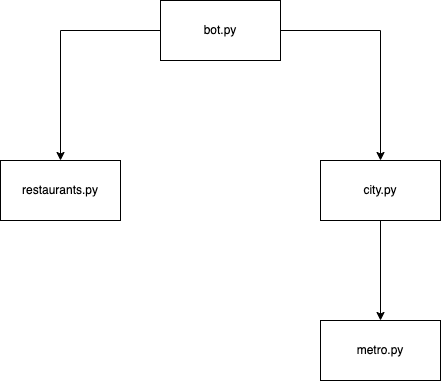
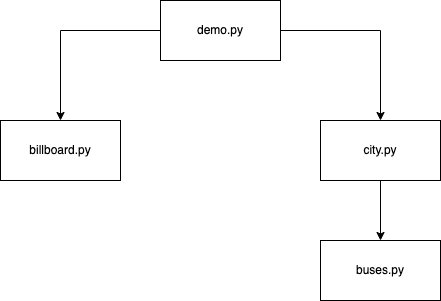
Millores

diff --git a/README.md b/README.md
@@ -5,7 +5,7 @@
 
 ## Introducció
 
-Aquesta pàgina descriu el projecte CineBus, que correspon a la segona pràctica del curs 2023 d'AP2 al GCED. La vostra tasca consisteix en implementar un Bot de Telegram que permeti als barcelonins trobar una pel·lícula d'acord a les seves preferències i ensenyar-los com arribar al cinema que la mostri el més aviat possible en desplaçaments en bus i a peu.
+Aquesta pàgina descriu el projecte CineBus, que correspon a la segona pràctica del curs 2023 d'AP2 al GCED. La vostra tasca consisteix en implementar la part relativa a les dades, algorismes i visualització d'un sistema que permeti als barcelonins trobar una pel·lícula d'acord a les seves preferències i ensenyar-los com arribar al cinema que la mostri el més aviat possible en desplaçaments en bus i a peu.
 
 Per realitzar aquesta pràctica haureu d'integrar aquestes dades:
 
@@ -13,7 +13,7 @@ Per realitzar aquesta pràctica haureu d'integrar aquestes dades:
 
 - La [Informació de companyies, línies i recorreguts](https://www.ambmobilitat.cat/OpenData/ObtenirDadesAMB.json) del [Catàleg OpenData de l'Àrea Metropolitana de Barcelona](https://www.amb.cat/s/web/area-metropolitana/dades-obertes/cataleg-opendata.html).
 
-- Alguna cartellera de cinema com la de [Sensacine](https://www.sensacine.com/cines/cines-en-72480/).
+- Alguna cartellera de cinema, com ara la de [Sensacine](https://www.sensacine.com/cines/cines-en-72480/).
 
 
 ## Arquitectura del sistema
@@ -26,24 +26,24 @@ Els sistema consta dels mòduls següents:
 
 - `city.py` conté tot el codi relacionat amb la construcció del graf de ciutat i la cerca de rutes entre punts de la ciutat.
 
-- `bot.py` conté tot el codi relacionat amb el bot de Telegram i utilitza els mòduls `city` i `billboard`. La seva tasca és reaccionar a les comandes dels usuaris per poder-los guiar. 
+- `demo.py` conté un programa de demostració i utilitza els mòduls `city` i `billboard`. 
 
 Els diagrama de mòduls següents mostra les relacions d'ús entre aquests mòduls:
 
-!!!FALTA POSAR NOVA VERSIO
+
 ![images/moduls.png](images/moduls.png)
 
 
 
 ## Mòdul `billboard`
 
-La funció principal d'aquest mòdul és llegir les dades relatives a la cartellera de cinemes de Barcelona i cercar-les. 
+La funció principal d'aquest mòdul és llegir les dades relatives a la cartellera de cinemes de Barcelona del dia actual i cercar-les. 
 
-La lectura de la cartalleres ha de generar una dada de tipus `Billboard`, que té tres camps: 
+La lectura de la cartallera ha de generar una dada de tipus `Billboard`, que té tres camps: 
 
 - `films` enmagatzema les pel·lícules disponibles,
 - `cinemas` enmagatzema les sales de cinema disponibles,
-- `projeccions` enmagatzema les projeccions (sessions) de pel·licules en sales, juntament amb la seva hora.
+- `projeccions` enmagatzema les projeccions (sessions) de pel·lícules en sales, juntament amb la seva hora.
 
 La informació de cada pel·lícula s'ha de desar en una dada de tipus `Film`. Per exemple,
 
@@ -61,7 +61,7 @@ La informació de cada sala s'ha de desar en una dada de tipus `Cinema`. Per exe
 
 ```python3
 @dataclass 
-class Ciname: 
+class Cinema: 
     name: str
     address: str
     ...
@@ -79,7 +79,7 @@ class Projection:
     ...
 ```
 
-Així, la classe `Billboard` tñe, com a mínim, aquests atributs i mètodes:
+Així, la classe `Billboard` podria tenir aquests atributs i mètodes:
 
 ```python3
 @dataclass 
@@ -95,14 +95,14 @@ La funció `read` del mòdul `billboard.py` ha de descarregar les dades necessà
 def read() -> Billboard: ...
 ```
 
-La classe `Billboard` ha de proporcionar mètodes per poder-hi cercar informació. !!! COMPLETAR
+A més, la classe `Billboard` ha de proporcionar mètodes per poder-hi cercar informació. Per exemple, podria haver-hi un mètode que, donat un mot, retornés totes les projeccions de pel·lícules que inclouen aquell mot al seu títol. Opcionalment, podeu afegir-hi més mètodes de consulta, per exemple per trobar pel·lícules a través de filtres com el seu gènere, el seu director, els seus actors...
 
 
 ## Mòdul `buses`
 
-La funció principal d'aquest mòdul és crear un **graf de busos** a partir de les dades de les línies i les seves parades. Un graf de busos conté informació sobre les parades, les línies i els trajectes dels autobusos. 
+La funció principal d'aquest mòdul és crear un **graf de busos** a partir de les dades de la informació de les línies d'autobusos i les seves parades. Un graf de busos conté informació sobre les parades, les línies i els trajectes dels autobusos. 
 
-En un graf (dirigit) de metro els nodes es corresponen a les parades i els arcs als trajectes entres dues parades consecutives d'una mateixa línia de bus. Els nodes han de tenir atributs per desar-hi el nom de la parada, les seves coordenades, ètc. Els arc han de tenir atributs per desar-hi, per exemple, la línia del bús que el serveix.
+En un graf (dirigit) de busos, els nodes es corresponen a les parades i els arcs als trajectes entres dues parades consecutives d'una mateixa línia de bus. Els nodes han de tenir atributs per desar-hi el nom de la parada, les seves coordenades, ètc. Els arcs han de tenir atributs per desar-hi, per exemple, la línia del bús que els serveix.
 
 El mòdul `busos` ha d'oferir la funció
 
@@ -110,7 +110,7 @@ El mòdul `busos` ha d'oferir la funció
 def get_buses_graph() -> BusesGraph: ...
 ```
 
-que es baixa les dades de l'AMB i retorna un graf no dirigit a partir del contingut. El tipus `BusesGraph` no és altra cosa que un graf no dirigit de networkx:
+que descarrega les dades de l'AMB i retorna un graf no dirigit a partir del contingut. El tipus `BusesGraph` no és altra cosa que un graf no dirigit de networkx:
 
 ```python3
 BusesGraph : TypeAlias = networkx.Graph
@@ -124,30 +124,20 @@ def show(g: BusesGraph) -> None: ...
 def plot(g: BusesGraph, nom_fitxer: str) -> None: ...
 ```
 
-!!! POSAR NOUS EXEMPLES
-La primera mostra el graf interactivament en una finestra com aquesta:
-
-![images/show.png](images/show.png)
-
-Useu `networkx.draw()`.
-
-La segona desa el graf com una imatge amb el mapa de la ciutat de fons en l'arxiu especificat a `nom_fitxer`:
-
-![images/plot.png](images/plot.png)
-
-Useu `staticmaps`.
+La primera mostra el graf interactivament usant `networkx.draw`.
+La segona desa el graf com una imatge amb el mapa de la ciutat de fons en l'arxiu especificat a `nom_fitxer` usant `staticmaps`.
 
 
 
 ## Mòdul `city`
 
-El mòdul `city` és el responsable de crear i consultar el **graf de ciutat** que representarà tota la informació necessària per saber anar d'una cruïlla de la ciutat de Barcelona a una altre de la forma més ràpida possible a peu o en bus. El graf de ciutat serà un graf no dirigit resultat de la fusió de dos altres grafs: el graf dels carrers de Barcelona (que ens proporcionarà el mòdul `osmnx`) i el graf de metro (que ens el proporcionarà el mòdul `buses`). El graf de ciutat serà del tipus
+El mòdul `city` és el responsable de proporcionar el **graf de ciutat** que representarà tota la informació necessària per saber anar d'una cruïlla de la ciutat de Barcelona a una altre de la forma més ràpida possible a peu o en bus. El graf de ciutat serà un graf no dirigit resultat de la fusió de dos altres grafs: el graf dels carrers de Barcelona (que proporciona el mòdul `osmnx`) i el graf de metro (que proporciona el mòdul `buses`). El graf de ciutat serà del tipus
 
 ```python3
 CityGraph : TypeAlias = networkx.Graph
 ```
 
-i cada aresta tindrà un atribut `info` de tipus `Edge` que heu de definir vosaltres (que segurament inclourà camps com `tipus`, `color`, ...). ???
+i cada aresta tindrà un atribut `info` de tipus `Edge` que heu de definir vosaltres amb els camps rellevants.
 
 El graf de carrers de Barcelona l'obtindrem amb la funció:
 
@@ -180,11 +170,11 @@ def build_city_graph(g1: OsmnxGraph, g2: BusesGraph) -> CityGraph: ...
     # retorna un graf fusió de g1 i g2
 ```
 
-El `CityGraph` resultant tindrà com a nodes la unió de nodes del `OsmnGraph` (que seran de tipus `Cruilla`) i del `BusesGraph` (que seran de tipus `Parada`). Les seves arestes són les que hi ha al `OsmnGraph` (que seran de tipus `Carrer`) i les del `BusesGraph` (que seran de tipus `Bus`). A més, cal connectar cada node `Parada` amb el node més proper de tipus `Cruilla`. Aquestes arestes seran de tipus `Carrer`. Totes les arestes han de tenir una longitud. Per les arestes de `Carrer`, la seva longitud és la que Osmnx ja reporta; per les arestes de `Bus`, convindrem que la seva longitud és el camí més curt entre els dos nodes més propers a les seves dues parades.
+El `CityGraph` resultant tindrà com a nodes la unió de nodes del `OsmnGraph` (que seran de tipus `Cruilla`) i del `BusesGraph` (que seran de tipus `Parada`). Les seves arestes són les que hi ha al `OsmnxGraph` (que seran de tipus `Carrer`) i les del `BusesGraph` (que seran de tipus `Bus`). A més, cal connectar cada node `Parada` amb el node més proper de tipus `Cruilla`. Aquestes arestes seran de tipus `Carrer`. Totes les arestes han de tenir una longitud. Per les arestes de `Carrer`, la seva longitud és la que Osmnx ja reporta; per les arestes de `Bus`, convindrem que la seva longitud és el camí més curt entre els dos nodes més propers a les seves dues parades. Per les arestes entre cruïlles i parades, es pot posar la seva distància  avol d'ocell ja que no seràn mai massa lluny.
 
 Gràcies al `CityGraph` sabrem com anar el més ràpid possible des d'un punt de la ciutat a un altre. Fixeu diferents velocitats per travessar arestes de carrer o de bus i documenteu-ho adientment. 
 
-Per simplificar la pràctica, suposarem que el temps necessari per agafar un bus o canviar de bus és sempre zero (sempre hi ha busos!) !!! SI ES VOL ES POT COMPLICAR MES
+Per simplificar la pràctica, suposarem que el temps necessari per agafar un bus o canviar de bus és sempre zero (sempre hi ha busos!). Opcionalment, podeu fer que el temps per esperar un bus sigui algun valor constant (això afegeix complexitat a la construcció del graf).
 
 Els punts s'indicaran amb coordenades:
 
@@ -201,8 +191,7 @@ Path: ...
 
 on `Path` és alguna estructura de dades adient.
 
-Utilitzeu `ox_???` per trobar els nodes més propers a les coordenades.
-
+Utilitzeu funcions del tipus `osmnx.distance.nearest_nodes` per trobar els nodes més propers a les coordenades.
 
 El mòdul `city` també ha d'oferir les funcionalitats següents per mostrar mapes:
 
@@ -216,45 +205,21 @@ def plot_path(g: CityGraph, p: Path, filename: str, ...) -> None: ...
     # mostra el camí p en l'arxiu filename
 ```
 
-!!! REFER EXEMPLES
 
-Per exemple, `show` hauria de mostrar una finestra semblant a:
+## Funcionalitat del mòdul `demo`
 
-![images/citydraw.png](images/citydraw.png)
-
-mentre que `plot` hauria de dibuixar quelcom semblant a:
-
-![images/CityGraph.png](images/CityGraph.png)
-
-En el cas de `plot_path`, cal dibuixar el camí utilitzant els colors de les línies de metro pels segments en trams de vies i en negre pels segments a peu. Per exemple,
-
-![images/path.png](images/path.png)
-
-o més maco 🤣.
+El mòdul `demo` conté un petit programa principal per provar les funcionalitats dels altres mòduls utilitzant un simple sistema de menús. Aquestes són les funcionalitats mínimes que hauria de tenir:
 
 
-
-## Funcionalitat del mòdul `bot`
-
-El bot de Telegram ha de donar suport a les comandes següents:
-
-- `/start`: inicia la conversa.
-
-- `/help`: ofereix ajuda sobre les comandes disponibles.
-
-- `/author`: mostra el nom dels autors del projecte.
-
-- `/find <query>`: Cerca quins restaurants satisfan la cerca i n'escriu una llista numerada (12 elements com a molt). Per exemple: `/find pizza`.
-
-- `/info <numero>`: mostra la informació sobre el restaurant especificat pel seu número (triat de la darrera llista numerada obtinguda amb `/find`).
-
-- `/guide <numero>`: mostra un mapa amb el camí més curt per anar del punt actual on es troba l'usuari al restaurant especificat pel seu número (triat de la darrera llista numerada obtinguda amb `/find`).
-
-El bot hauria de començar construint el graf de ciutat i la llista de restaurants. A partir d'aquell moment esperarà connexions de diferents usuaris i els ajudarà a trobar un restaurant a través de les cerques i els ensenyarà a arribar-hi des de la seva posició actual tot calculant la ruta òptima utilitzant desplaçaments en metro i a peu. Totes les comandes han de funcionar per a diferents usuaris alhora (i les peticions de diferents usuaris no s'han de barrejar!).
-
-Per utilitzar el bot, els usuaris han de compartir-li la seva localització. D'aquesta forma, podrà guiar-los adequadament. Si no s'ha compartit la localització, algunes de les comandes hauran d'assenyalar l'error.
-
-Opcionalment, el bot també pot incloure alguna comanda per definir (i tenir en compte) el tipus d'accessibilitat que l'usuari requereix. 
+- mostrar el nom dels autors del projecte.
+- crear la cartellera.
+- mostrar el contingut de la cartellera.
+- cercar a la cartellera.
+- crear el graf de busos.
+- mostrar el graf de busos.
+- crear el graf de ciutat.
+- mostrar el graf de ciutat.
+- mostrar el camí per anar a veure una pel·lícula desitjada des d'un lloc donat en un moment donat. De totes les projeccions possibles cal mostrar el camí per arribar a la que comenci abans (i que s'hi pugui arribar a temps a peu i en bús).
 
 
 ## Llibreries
@@ -267,7 +232,6 @@ Utilitzeu les llibreries de Python següents:
 - `osmnx` per a obtenir grafs de llocs (Barcelona en aquest cas).
 - `haversine` per a calcular distàncies entre coordenades.
 - `staticmap` per pintar mapes.
-- `python-telegram-bot` per interactuar amb Telegram.
 
 Totes es poden instal·lar amb `pip3 install`.
 
@@ -277,8 +241,6 @@ Podeu utilitzar lliurament altres llibreries estàndards de Python. Si voleu usa
 ## Fonts d'informació
 
 Aquests enllaços us seran útils per fer el vostre projecte:
-
-- [Lliçons de bots de Telegram](https://lliçons.jutge.org/python/telegram.html)
 
 - [Lliçons de fitxers en Python](https://lliçons.jutge.org/python/fitxers-i-formats.html)
 
@@ -365,18 +327,18 @@ Si no es reb cap missatge d'equip per aquesta data, es considerarà que feu la p
 Heu de lliurar la vostra pràctica al Racó.
 El termini de lliurament és el **diumenge 4 de juny a les 23:59 CEST**.
 
-Només heu de lliurar un fitxer ZIP que, al descomprimir-se, generi els fitxers següents:
+Només heu de lliurar un fitxer ZIP que, al descomprimir-se, generi en el directori actual els fitxers següents:
 
 - `barcelona.grf` (el graf de carrers de Barcelona), 
 - `city.py`,
-- `metro.py`,
-- `restaurants.py`,
-- `bot.py`,
+- `buses.py`,
+- `billboard.py`,
+- `demo.py`,
 - `requirements.txt`,
 - `README.md` i
 - `*.png` si cal adjuntar imatges a la documentació.
 
-Res més. Sense directoris ni subdirectoris.
+Res més. Sense directoris ni subdirectoris. Ni `.gits` ni `._*`...
 
 Els vostres fitxers de codi en Python han de seguir
 [les regles d'estíl PEP8](https://www.python.org/dev/peps/pep-0008/). Podeu utilitzar el paquet `pep8` o http://pep8online.com/ per assegurar-vos que seguiu aquestes regles d'estíl. L'ús de tabuladors en el codi queda prohibit (zero directe).
@@ -397,8 +359,7 @@ El projecte també ha de contenir un fitxer `requirements.txt` amb les llibrerie
     2. Implementeu primer el mòdul `billboard` i proveu-lo.
     3. Implementeu després el mòdul `buses` i proveu-lo.
     4. Implementeu després el mòdul `city` i proveu-lo. 
-    6. Estudieu com escriure un bot de Telegram i experimenteu separadament les parts que necessitareu.
-    7. Implementeu el mòdul `bot` i proveu-lo.
+    7. Implementeu el mòdul `demo` i proveu-lo.
     8. No implementeu parts opcionals fins que no tingueu totes les parts obligatòries fetes.
 
 - Documenteu el codi a mesura que l'escriviu.
@@ -407,7 +368,7 @@ El projecte també ha de contenir un fitxer `requirements.txt` amb les llibrerie
 
 - Considereu que el projecté és la primera versió d'una aplicació que hareu d'anar millorant en els propers anys. Eviteu valors màgics, useu constants, definiu funcions per a càlculs suceptibles de ser reconsiderats el futur...
 
-- Podeu ampliar les capacitats del vostre projecte mentre manteniu les funcionalitats mínimes previstes en aquest enunciat. Ara bé, aviseu abans als vostres professors i deixeu-ho tot ben documentat.
+- Podeu ampliar les capacitats del vostre projecte mentre mantingueu les funcionalitats mínimes previstes en aquest enunciat. Ara bé, aviseu abans als vostres professors i deixeu-ho tot ben documentat.
 
 - Per evitar problemes de còpies, no pengeu el vostre projecte en repositoris públics. 
 
